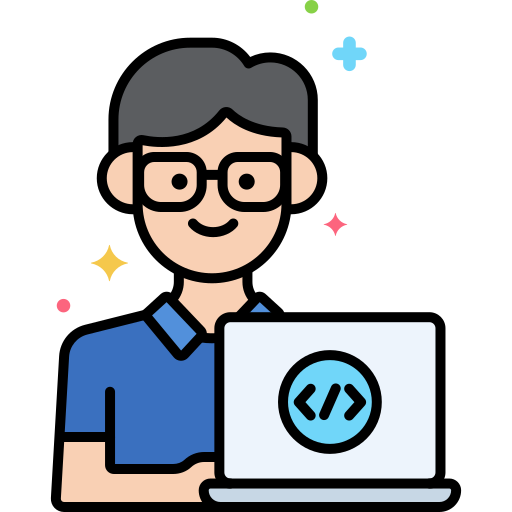
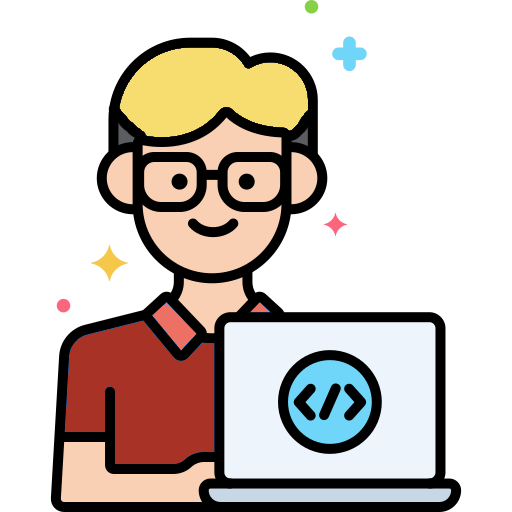
imagen cambiada y empezado el grid del main, mas modificaciones en la estructura

Changed region(s): [[0.125, 0.5938, 0.4375, 0.9062], [0.2188, 0.0938, 0.625, 0.2812], [0.5, 0.5938, 0.5312, 0.625]]

diff --git a/front.css b/front.css
@@ -7,8 +7,13 @@
     font-style: normal;
 }
 
+html{
+    scroll-behavior: smooth;
+}
+
 body{
     background-color: #f3f3f3;
+    transition: 1s;
 }
 
 .dark{
@@ -152,7 +157,6 @@ header{
 
     & img{
         width: 40%;
-        height: auto;
     }
 }
 
@@ -164,6 +168,7 @@ nav{
     justify-content: end;
     align-items: center;
     padding-right: 10px;
+    z-index: 1;
 
     & a{
         font-size: 25px;
@@ -195,4 +200,115 @@ nav{
         left: 35px;
         width: 75px;
     }
+}
+
+.first-main{
+    background-color: #7f8084;
+    display: grid;
+    grid-template-columns: 1fr 1fr;
+    grid-template-rows: 1fr 1fr;
+    color: #f3f3f3;
+
+    & h2{
+        text-align: center;
+        margin-top: 180px;
+        grid-column: 1;
+        font-size: 70px;
+        position: sticky;
+        top: 200px;
+        z-index: 0;
+    }
+
+    & p{
+        grid-column: 2;
+        font-size: 24px;
+        margin-right: 100px;
+        margin-top: 80px;
+    }
+
+    & p:nth-child(2){
+        text-align: center;
+    }
+
+    & div{
+        grid-column: 2;
+    }
+}
+
+.icons{
+
+    & p{
+        font-size: 38px;
+    }
+
+    & p:nth-child(5){
+        margin-top: 20px;
+    }
+
+    & p:nth-child(9){
+        margin-top: 20px;
+    }
+
+    & div{
+        background: rgb(255,161,49);
+        background: linear-gradient(90deg, rgba(255,161,49,1) 0%, rgba(84,153,199,1) 100%);
+        outline: 2px solid black;
+        margin-right: 5px;
+        border-radius: 15px;
+        display: flex;
+        align-items: center;
+        justify-content: center;
+        width: 15%;
+        margin-bottom: 30px;
+    }
+}
+
+.icons span{
+    margin-right: 5px;
+    font-size: 20px;
+    padding: 10px;
+    border-radius: 15px;
+}
+
+.icons span:nth-child(2){
+    background-color: #F5B041;
+    outline: 2px solid black;
+}
+
+.icons span:nth-child(3){
+    background-color: #3498DB;
+    outline: 2px solid black;
+}
+
+.icons span:nth-child(4){
+    background-color: #FFF779;
+    outline: 2px solid black;
+    color: black;
+}
+
+.icons span:nth-child(6){
+    background-color: #EC7063;
+    outline: 2px solid black;
+    color: black;
+}
+
+.icons span:nth-child(7){
+    background: rgb(255,240,0);
+    background: linear-gradient(90deg, rgba(255,240,0,1) 0%, rgba(84,153,199,1) 100%);
+    outline: 2px solid black;
+    color: black;
+}
+
+.icons span:nth-child(8){
+    background-color: #5499C7;
+    outline: 2px solid black;
+    color: black;
+}
+
+#sql{
+    background: none;
+    outline: none;
+    padding: 0;
+    font-size: 25px;
+    color: black;
 }

diff --git a/briefcase.html b/briefcase.html
@@ -9,6 +9,7 @@
     <link rel="preconnect" href="https://fonts.googleapis.com">
     <link rel="preconnect" href="https://fonts.gstatic.com" crossorigin>
     <link href="https://fonts.googleapis.com/css2?family=Madimi+One&family=Space+Grotesk:wght@300..700&display=swap" rel="stylesheet">
+    <script src="https://kit.fontawesome.com/69bd2e7207.js" crossorigin="anonymous"></script>
 </head>
 <body>
     <header>
@@ -27,11 +28,35 @@
     <nav>
         <img class="g-b" src="img/gato_blanco.png">
         <img class="g-n" src="img/gato_negro.png">
-        <a href="">Habilidades</a>
+        <a href="#first-main">Habilidades</a>
         <a href="">Proyectos</a>
         <a href="">Contacto</a>
     </nav>
     <main>
+        <div class="first-main" id="first-main">
+            <h2>Habilidades</h2>
+            <p>Estuve desarrollando mis habilidades gracias a la escuela, pero especialmente gracias a cursos que miraba desde YouTube, leyendo en foros sobre programación y haciendo proyectos para practicar y mejorar mis conocimientos. Tengo experiencia laboral como freelancer, hice un software para un prestamista que sirve para llevar un control de préstamos y de clientes, es mi único trabajo por ahora. Acá abajo muestro las tecnologías que aprendí y que desempeño en el día a día para mejorar como desarrollador.</p>
+            <div class="icons">
+                <p>Front-end</p>
+                <span class="fa-brands fa-html5"> html</span>
+                <span class="fa-brands fa-css3-alt"> css</span>
+                <span class="fa-brands fa-js"> JavaScript</span>
+                <p>Back-end</p>
+                <span class="fa-brands fa-java"> Java</span>
+                <span class="fa-brands fa-python"> Python</span>
+                <span class="fa-brands fa-php"> php</span>
+                <p>Base de datos</p>
+                <div>
+                    <img width="40" height="40" src="https://img.icons8.com/color/48/my-sql.png" alt="my-sql"/>
+                    <span id="sql">SQL</span>
+                </div>
+            </div>
+        </div>
+        <div class="second-main">
+        </div>
+        <div class="third-main">
+
+        </div>
     </main>
     <footer></footer>
     <script src="functions.js"></script>
